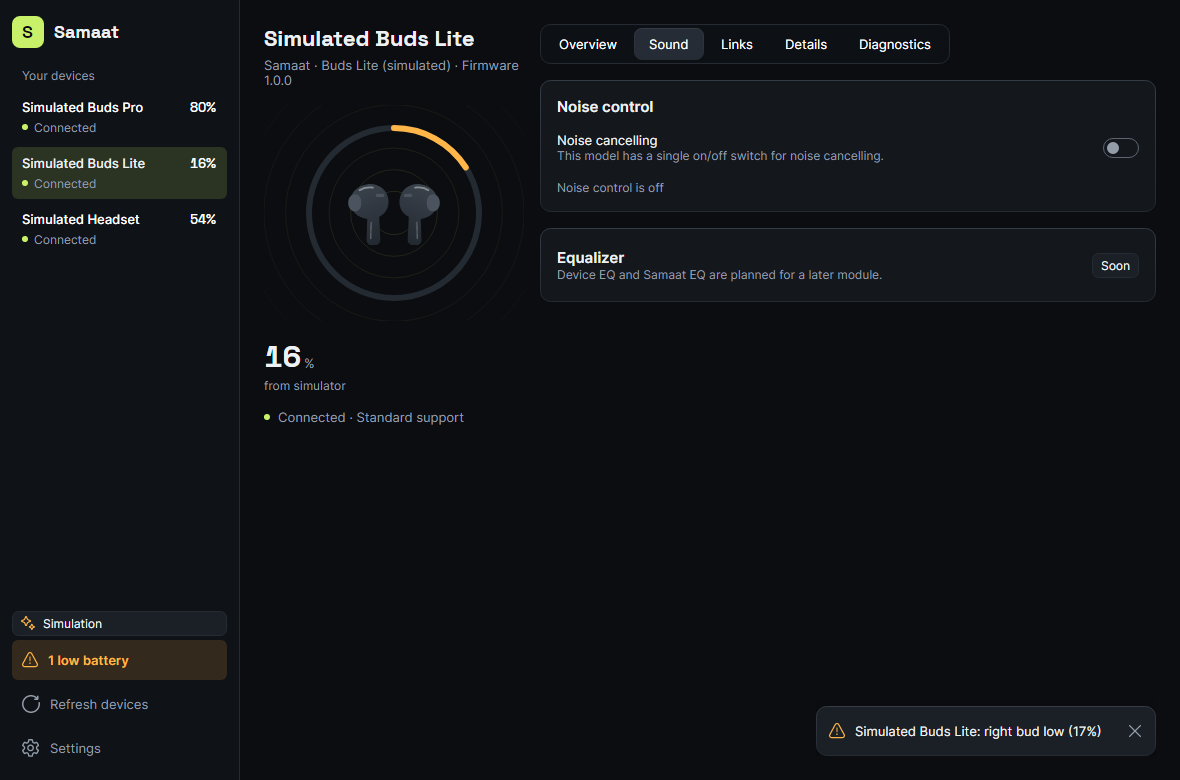
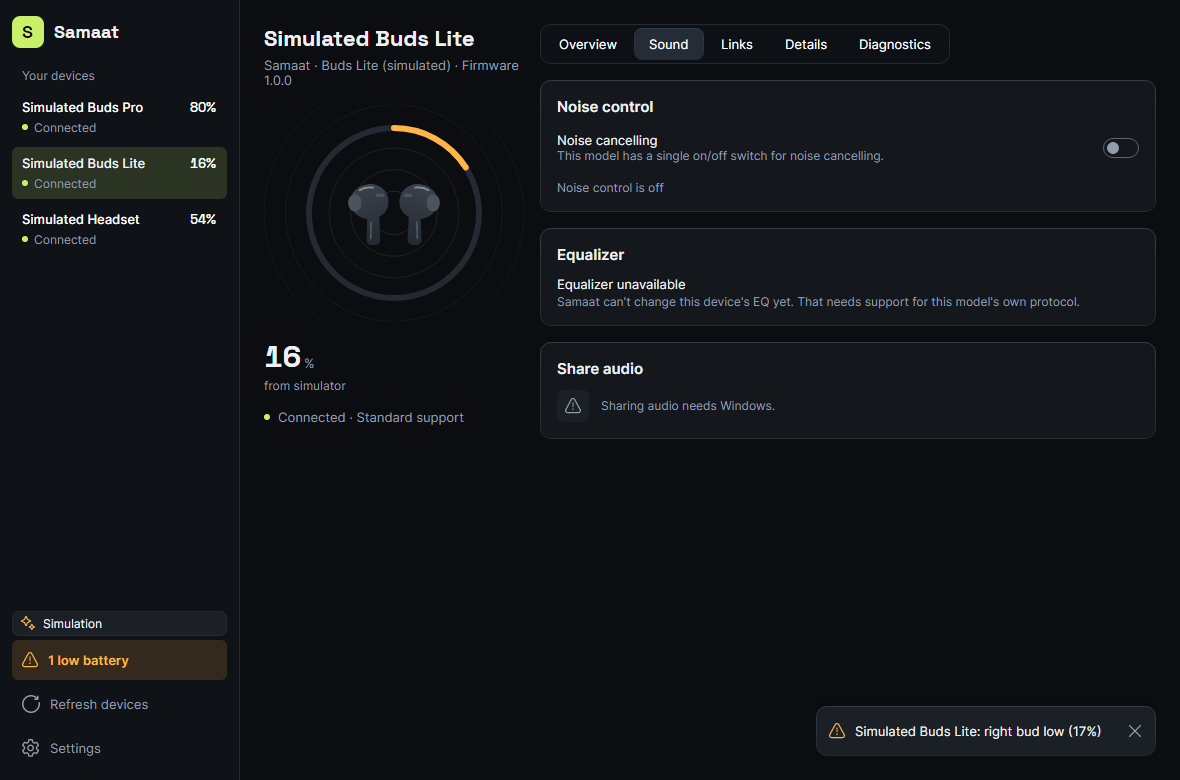
feat(ui): redesign the Share audio card

Changed region(s): [[0.4576, 0.3077, 0.9153, 0.4], [0.4576, 0.4615, 0.6407, 0.5231]]

diff --git a/tests/Samaat.App.Tests/AudioShareViewModelTests.cs b/tests/Samaat.App.Tests/AudioShareViewModelTests.cs
@@ -474,4 +474,122 @@ public sealed class AudioShareViewModelTests : IDisposable
         Assert.False(vm.IsSupported);
         Assert.Equal("Sharing audio needs Windows.", vm.UnavailableText);
     }
+
+    [AvaloniaTheory]
+    [InlineData("Speakers (Realtek)", "Icon.Sound")]
+    [InlineData("WH-1000XM5 Headphones", "Icon.Headphones")]
+    [InlineData("Galaxy Buds Pro", "Icon.Headphones")]
+    [InlineData("Jabra Headset", "Icon.Headphones")]
+    [InlineData("LG TV", "Icon.Desktop")]
+    [InlineData("Dell Monitor", "Icon.Desktop")]
+    [InlineData("HDMI Output", "Icon.Desktop")]
+    [InlineData("Something else", "Icon.Sound")]
+    public void IconKey_FromName(string name, string key)
+    {
+        var (vm, _, _) = Create([new("d", name, true), new("x", name, false)]);
+        Assert.Equal(key, vm.Rows[0].IconKey);
+        Assert.Equal(key, vm.DefaultIconKey);
+    }
+
+    [AvaloniaFact]
+    public void StateText_FollowsSharingAndDelay()
+    {
+        var (vm, _, _) = Create();
+        var row = vm.Rows[0];
+        var changed = new List<string?>();
+        row.PropertyChanged += (_, e) => changed.Add(e.PropertyName);
+        Assert.Equal("Not sharing", row.StateText);
+        row.IsSharing = true;
+        Settle();
+        Assert.Equal("Sharing", row.StateText);
+        row.DelayMs = 120;
+        Assert.Equal("Sharing · 120 ms delay", row.StateText);
+        Assert.Contains(nameof(row.StateText), changed);
+        row.IsSharing = false;
+        Settle();
+        Assert.Equal("Not sharing", row.StateText);
+    }
+
+    [AvaloniaFact]
+    public void HasStatus_FollowsStatus()
+    {
+        var (vm, _, _) = Create();
+        var row = vm.Rows[0];
+        Assert.False(row.HasStatus);
+        row.Status = "Nope";
+        Assert.True(row.HasStatus);
+    }
+
+    [AvaloniaFact]
+    public void SharingSummary_CountsAndHidesAtZero()
+    {
+        var (vm, _, _) = Create();
+        var changed = new List<string?>();
+        vm.PropertyChanged += (_, e) => changed.Add(e.PropertyName);
+        Assert.Null(vm.SharingSummary);
+        vm.Rows[0].IsSharing = true;
+        Settle();
+        Assert.Equal("1 of 3", vm.SharingSummary);
+        Assert.Contains(nameof(vm.SharingSummary), changed);
+        Assert.Contains(nameof(vm.IsLive), changed);
+        vm.Rows[0].IsSharing = false;
+        Settle();
+        Assert.Null(vm.SharingSummary);
+    }
+
+    [AvaloniaFact]
+    public void IsAtLimit_AtThree()
+    {
+        var (vm, _, _) = Create(Outs("spk", "a", "b", "c", "d"));
+        var changed = new List<string?>();
+        vm.PropertyChanged += (_, e) => changed.Add(e.PropertyName);
+        Assert.False(vm.IsAtLimit);
+        for (var i = 0; i < 3; i++)
+        {
+            vm.Rows[i].IsSharing = true;
+        }
+
+        Settle();
+        Assert.True(vm.IsAtLimit);
+        Assert.Contains(nameof(vm.IsAtLimit), changed);
+    }
+
+    [AvaloniaFact]
+    public void IsLive_WhenAnySharing()
+    {
+        var (vm, _, _) = Create();
+        Assert.False(vm.IsLive);
+        vm.Rows[0].IsSharing = true;
+        Settle();
+        Assert.True(vm.IsLive);
+    }
+
+    [AvaloniaFact]
+    public void AccessibleLabels_IncludeName()
+    {
+        var (vm, _, _) = Create();
+        var row = vm.Rows[0];
+        Assert.Equal("Share to TV", row.ShareLabel);
+        Assert.Equal("Switch to TV", row.SwitchLabel);
+        Assert.Equal("Delay for TV", row.DelayLabel);
+    }
+
+    [AvaloniaFact]
+    public void DisabledReason_AtLimit_ExplainsWhy()
+    {
+        var (vm, _, _) = Create(Outs("spk", "a", "b", "c", "d"));
+        var changed = new List<string?>();
+        vm.Rows[3].PropertyChanged += (_, e) => changed.Add(e.PropertyName);
+        Assert.Null(vm.Rows[3].DisabledReason);
+        for (var i = 0; i < 3; i++)
+        {
+            vm.Rows[i].IsSharing = true;
+        }
+
+        Settle();
+        Assert.Equal("Up to 3 devices can be shared at once", vm.Rows[3].DisabledReason);
+        Assert.Null(vm.Rows[0].DisabledReason);
+        Assert.Contains(nameof(ShareTargetViewModel.DisabledReason), changed);
+        Assert.Contains(nameof(ShareTargetViewModel.CanToggle), changed);
+    }
 }

diff --git a/tests/Samaat.App.Tests/MainWindowTests.cs b/tests/Samaat.App.Tests/MainWindowTests.cs
@@ -18,11 +18,13 @@ namespace Samaat.App.Tests;
 
 public class MainWindowTests
 {
-    private static async Task<(MainWindow Window, MainWindowViewModel ViewModel)> ShowAsync(DeviceProfileDb? profiles = null)
+    private static async Task<(MainWindow Window, MainWindowViewModel ViewModel)> ShowAsync(
+        DeviceProfileDb? profiles = null, Func<Samaat.Core.Audio.IAudioShare>? audioShareFactory = null, Samaat.Core.Platform.IDefaultOutputSwitcher? outputSwitcher = null)
     {
         // A temp-directory store, so tests never read or write the real %APPDATA% settings.
         var settings = new SettingsStore(Path.Combine(Path.GetTempPath(), "samaat-tests-" + Guid.NewGuid().ToString("N"), "settings.json"));
-        var viewModel = new MainWindowViewModel(new AppOptions(Simulate: true, IncludeNonAudio: false), settings: settings, profiles: profiles);
+        var viewModel = new MainWindowViewModel(new AppOptions(Simulate: true, IncludeNonAudio: false), settings: settings, profiles: profiles,
+            audioShareFactory: audioShareFactory, outputSwitcher: outputSwitcher);
         var window = new MainWindow { DataContext = viewModel };
         window.Show();
         await viewModel.RefreshDevicesAsync();
@@ -200,6 +202,54 @@ public class MainWindowTests
             narrow!.Save(Path.Combine(directory, "buds-pro-narrow.png"));
         }
 
+
+        // The Share audio card needs fake outputs, so it gets its own window.
+        var fakes = new List<FakeAudioShare>();
+        var (shareWindow, shareViewModel) = await ShowAsync(audioShareFactory: () =>
+        {
+            var fake = new FakeAudioShare();
+            if (fakes.Count == 0)
+            {
+                fake.Outputs =
+                [
+                    new("hp", "Headphones (Quantum)", true),
+                    new("spk", "Speakers (Realtek)", false),
+                    new("tv", "LG TV", false),
+                    new("xm5", "WH-1000XM5 Headset", false),
+                ];
+            }
+
+            fakes.Add(fake);
+            return fake;
+        }, outputSwitcher: new FakeSwitcher());
+        shareViewModel.SelectDeviceCommand.Execute(shareViewModel.Devices[0]);
+        shareViewModel.NavigateCommand.Execute(AppSection.Sound);
+        var speakers = shareViewModel.AudioShare.Rows[0];
+        speakers.IsSharing = true;
+        await Task.Delay(100);
+        Dispatcher.UIThread.RunJobs();
+        speakers.DelayMs = 120;
+        foreach (var (variant, suffix) in new[] { (ThemeVariant.Dark, ""), (ThemeVariant.Light, "-light") })
+        {
+            Application.Current!.RequestedThemeVariant = variant;
+            SettleAnimations();
+            var scroller = shareWindow.GetVisualDescendants().OfType<ScrollViewer>().First(s => s.Extent.Height > s.Viewport.Height);
+            shareViewModel.Alerts.Clear();
+            scroller.ScrollToEnd();
+            SettleAnimations();
+            SettleAnimations();
+            Assert.Empty(shareViewModel.Alerts);
+            var shareFrame = shareWindow.CaptureRenderedFrame();
+            Assert.NotNull(shareFrame);
+            if (directory is not null)
+            {
+                shareFrame!.Save(Path.Combine(directory, $"buds-pro-sound-share{suffix}.png"));
+            }
+        }
+
+        shareWindow.Close();
+        await shareViewModel.DisposeAsync();
+        Application.Current!.RequestedThemeVariant = ThemeVariant.Dark;
         window.Close();
         await viewModel.DisposeAsync();
     }

diff --git a/src/Samaat.App/Features/Sound/ShareTargetViewModel.cs b/src/Samaat.App/Features/Sound/ShareTargetViewModel.cs
@@ -37,13 +37,16 @@ public sealed partial class ShareTargetViewModel : ObservableObject, IAsyncDispo
     public IRelayCommand SwitchHereCommand { get; }
 
     [ObservableProperty]
+    [NotifyPropertyChangedFor(nameof(StateText))]
     public partial bool IsSharing { get; set; }
 
     [ObservableProperty]
     [NotifyPropertyChangedFor(nameof(DelayText))]
+    [NotifyPropertyChangedFor(nameof(StateText))]
     public partial int DelayMs { get; set; }
 
     [ObservableProperty]
+    [NotifyPropertyChangedFor(nameof(HasStatus))]
     public partial string? Status { get; set; }
 
     /// <summary>The share ended by itself while the row was meant to be sharing; lets the card report a disconnect if the row then goes away.</summary>
@@ -51,9 +54,27 @@ public sealed partial class ShareTargetViewModel : ObservableObject, IAsyncDispo
 
     public string DelayText => $"Delay · {DelayMs} ms";
 
+    public string IconKey => AudioShareViewModel.IconKeyFor(Name);
+
+    public string StateText => !IsSharing ? "Not sharing" : DelayMs > 0 ? $"Sharing · {DelayMs} ms delay" : "Sharing";
+
+    public bool HasStatus => !string.IsNullOrEmpty(Status);
+
+    public string ShareLabel => $"Share to {Name}";
+
+    public string SwitchLabel => $"Switch to {Name}";
+
+    public string DelayLabel => $"Delay for {Name}";
+
+    public string? DisabledReason => CanToggle ? null : "Up to 3 devices can be shared at once";
+
     public bool CanToggle => _parent.IsReserved(this) || _parent.SharingCount < AudioShareViewModel.MaxShareTargets;
 
-    internal void RefreshCanToggle() => OnPropertyChanged(nameof(CanToggle));
+    internal void RefreshCanToggle()
+    {
+        OnPropertyChanged(nameof(CanToggle));
+        OnPropertyChanged(nameof(DisabledReason));
+    }
 
     partial void OnDelayMsChanged(int value)
     {

diff --git a/src/Samaat.App/Features/Sound/AudioShareViewModel.cs b/src/Samaat.App/Features/Sound/AudioShareViewModel.cs
@@ -49,7 +49,25 @@ public sealed partial class AudioShareViewModel : ObservableObject, IAsyncDispos
 
     public int SharingCount => _reserved.Count;
 
+    public string DefaultIconKey => IconKeyFor(DefaultName);
+
+    public string? SharingSummary => SharingCount > 0 ? $"{SharingCount} of {MaxShareTargets}" : null;
+
+    public bool IsAtLimit => SharingCount == MaxShareTargets;
+
+    public bool IsLive => SharingCount > 0;
+
+    internal static string IconKeyFor(string name)
+    {
+        static bool Has(string n, params string[] words) => words.Any(w => n.Contains(w, StringComparison.OrdinalIgnoreCase));
+        return Has(name, "speaker") ? "Icon.Sound"
+            : Has(name, "headphone", "headset", "buds", "earbuds") ? "Icon.Headphones"
+            : Has(name, "tv", "display", "monitor", "hdmi") ? "Icon.Desktop"
+            : "Icon.Sound";
+    }
+
     [ObservableProperty]
+    [NotifyPropertyChangedFor(nameof(DefaultIconKey))]
     public partial string DefaultName { get; set; } = "the default output";
 
     [ObservableProperty]
@@ -89,6 +107,9 @@ public sealed partial class AudioShareViewModel : ObservableObject, IAsyncDispos
     private void SlotsChanged()
     {
         OnPropertyChanged(nameof(SharingCount));
+        OnPropertyChanged(nameof(SharingSummary));
+        OnPropertyChanged(nameof(IsAtLimit));
+        OnPropertyChanged(nameof(IsLive));
         foreach (var row in Rows)
         {
             row.RefreshCanToggle();
